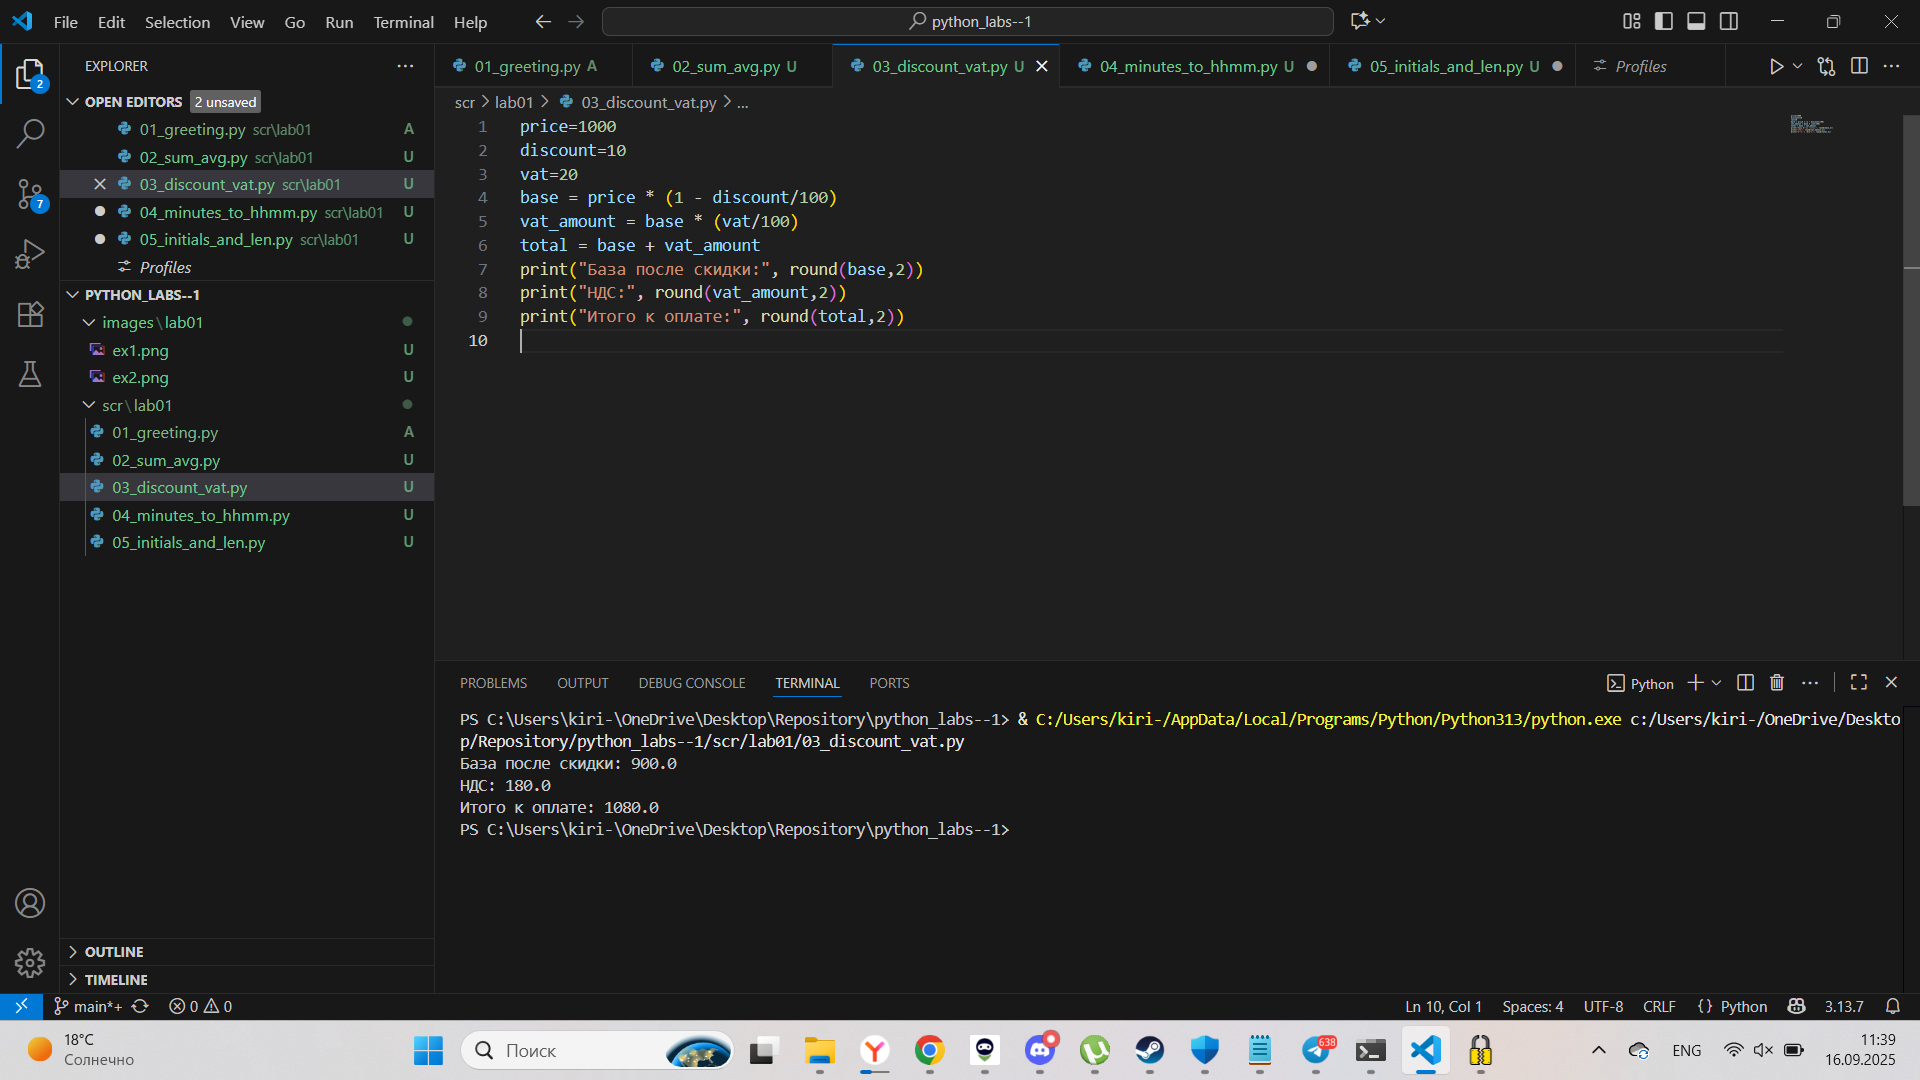
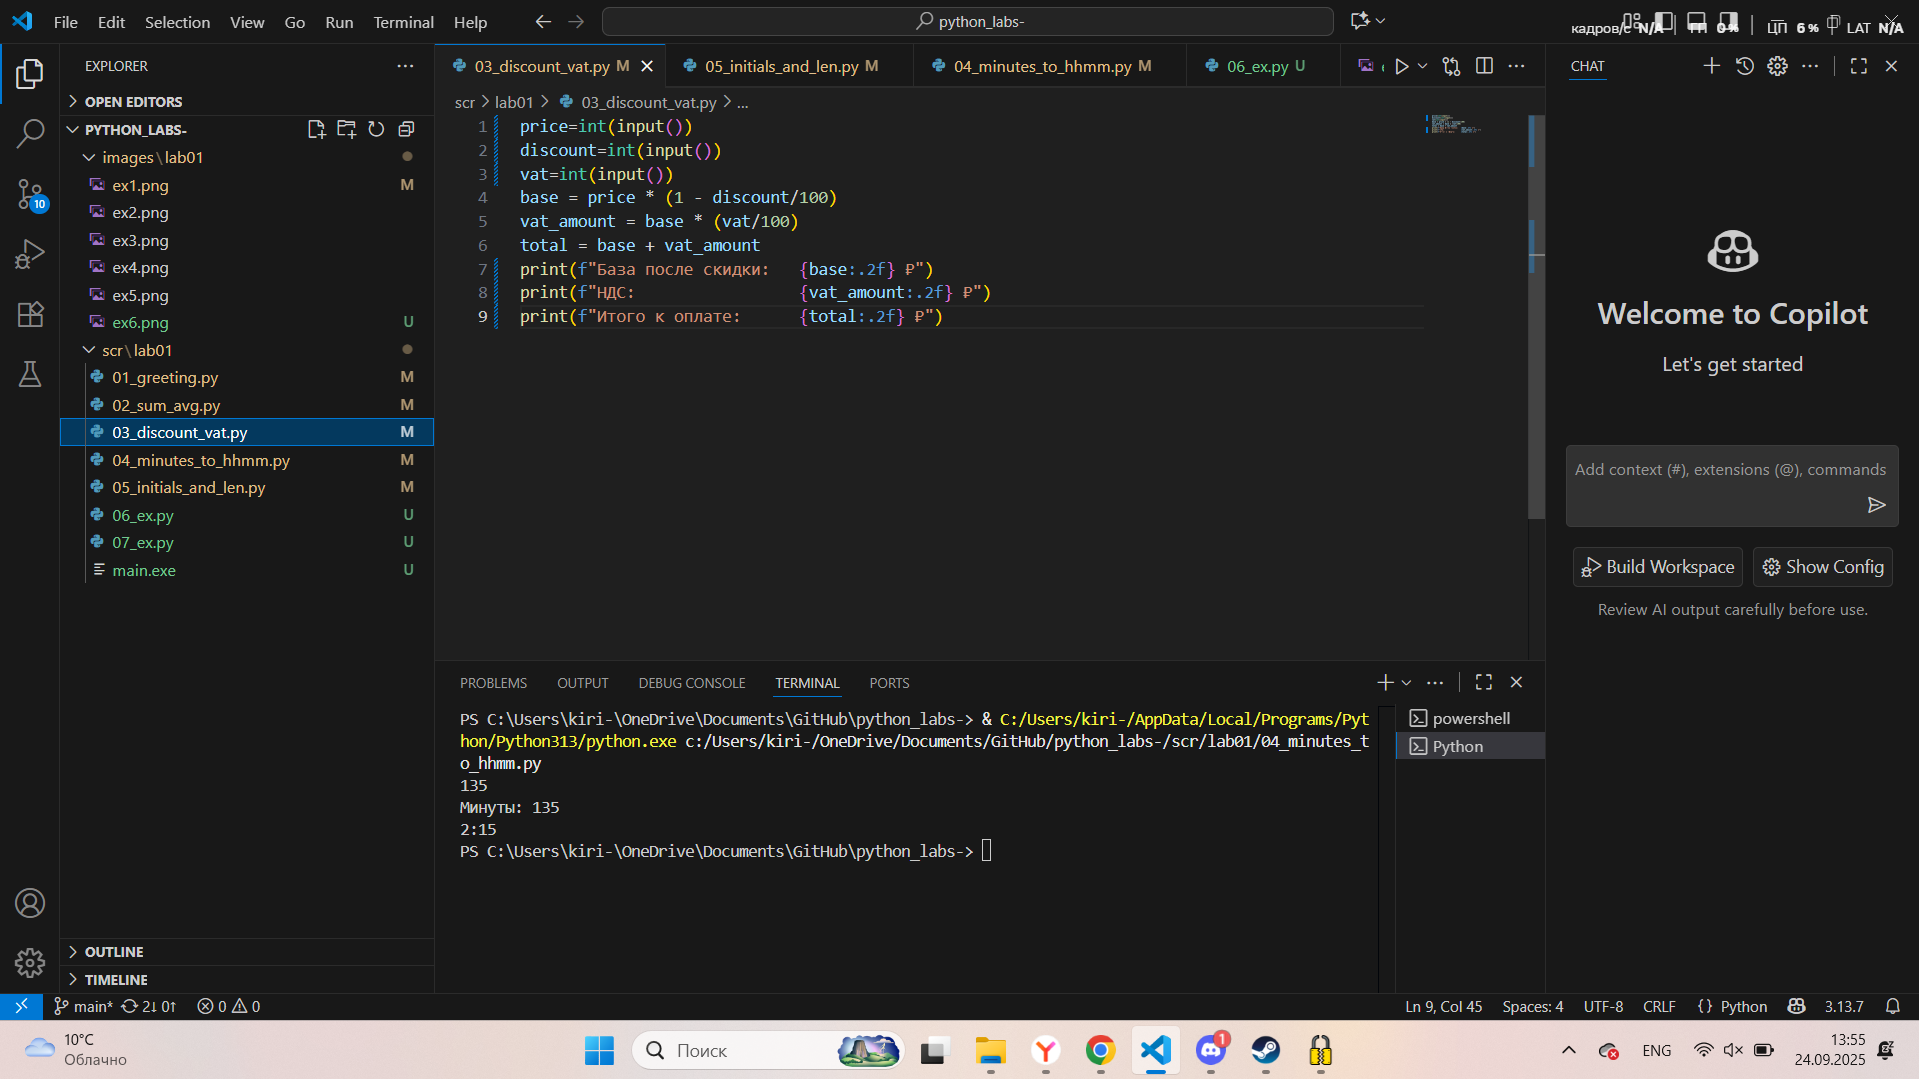
Your commit message

diff --git a/scr/lab01/07_ex.py b/scr/lab01/07_ex.py
@@ -1,0 +1,31 @@
+cif = "0123456789"
+buk = "ABCDEFGHIJKLMNOPQRSTUVWXYZ"
+spec = "."
+shifr = str(input())
+shifr = list(shifr)
+fin = ""
+k = 0
+s = True
+first = 0 
+second = 0 
+stop = False
+
+for i in range (len(shifr)):
+    ind = i 
+    if shifr[ind] in buk:
+        fin += shifr[ind]
+        first = i
+    if shifr[i] in cif and s == True:
+        fin += shifr[i+1]
+        s = False 
+        second = i + 1
+    shag = second - first  
+    ostalos = len(shifr[:second])
+    if shag > 0 and ostalos != len(shifr):
+        for j in range(ostalos+shag,len(shifr),shag):
+            fin += shifr[j]
+            if shifr[j] == ".":
+                stop = True
+    if stop == True:
+        break
+print(fin)

diff --git a/scr/lab01/03_discount_vat.py b/scr/lab01/03_discount_vat.py
@@ -1,9 +1,9 @@
-price=1000
-discount=10
-vat=20
+price=int(input())
+discount=int(input())
+vat=int(input())
 base = price * (1 - discount/100)
 vat_amount = base * (vat/100)
 total = base + vat_amount
-print("База после скидки:", round(base,2))
-print("НДС:", round(vat_amount,2))
-print("Итого к оплате:", round(total,2))
+print(f"База после скидки:   {base:.2f} ₽")
+print(f"НДС:                 {vat_amount:.2f} ₽")
+print(f"Итого к оплате:      {total:.2f} ₽")

diff --git a/scr/lab01/04_minutes_to_hhmm.py b/scr/lab01/04_minutes_to_hhmm.py
@@ -1,12 +1,9 @@
-m = input()
-m = int(m)
-h = m // 60
-c = m % 60
-mn = h * 60 
-mnn = m - mn 
-if c <= 9:
-    total = total = str(h) + ":" + "0" + str(mnn)
+m = int(input())
+k = m // 60
+ost = m - k * 60 
+if ost <= 9:
+    total = total = str(k) + ":" + "0" + str(ost)
 else:
-    total = str(h) + ":" + str(mnn)
+    total = str(k) + ":" + str(ost)
 print("Минуты:",m)
 print(total)

diff --git a/scr/lab01/01_greeting.py b/scr/lab01/01_greeting.py
@@ -1,4 +1,5 @@
 name = input("Введите ваше имя:")
 age = input("Введите ваш возраст:")
-
-print("Привет", name,"! Через год тебе будет", int(age) + 1,"!")
+age = int(age) + 1
+age = str(age)
+print("Привет,", name + "! Через год тебе будет", str(int(age)) + ".")

diff --git a/scr/lab01/02_sum_avg.py b/scr/lab01/02_sum_avg.py
@@ -1,8 +1,12 @@
-a = 3.5
-b = 4.25
+a = input()
+b = input()
+if a.count(",") > 0:
+    a = a.replace(",",".")
+if b.count(",") > 0:
+    b = b.replace(",",".")
 a = float(a)
 b = float(b)
 sum = a + b 
 rz = (a + b) / 2
 
-print(round(sum,2),round(rz,2))
+print("sum=" + str(round(sum,2))+";","avg=" + str(round(rz,2)))

diff --git a/scr/lab01/05_initials_and_len.py b/scr/lab01/05_initials_and_len.py
@@ -1,6 +1,7 @@
 I = input()
 m = []
 m = I.split()
+space = len(m) - 1
 print("ФИО:",I)
 print("Инициалы:",m[0][0]+m[1][0]+m[2][0])
-print("Длина (символов):",len(I))
+print("Длина (символов):",len(m[0])+len(m[1])+len(m[2]) + space)

diff --git a/scr/lab01/06_ex.py b/scr/lab01/06_ex.py
@@ -1,0 +1,12 @@
+N = int(input())
+m = []
+for i in range(N):
+    m.append(input())
+k1 = 0
+k2 = 0
+for i in range(len(m)):
+    if m[i].count("True") > 0:
+        k1 += 1
+    elif m[i].count("False") > 0:
+        k2 += 1
+print(k1,k2)
